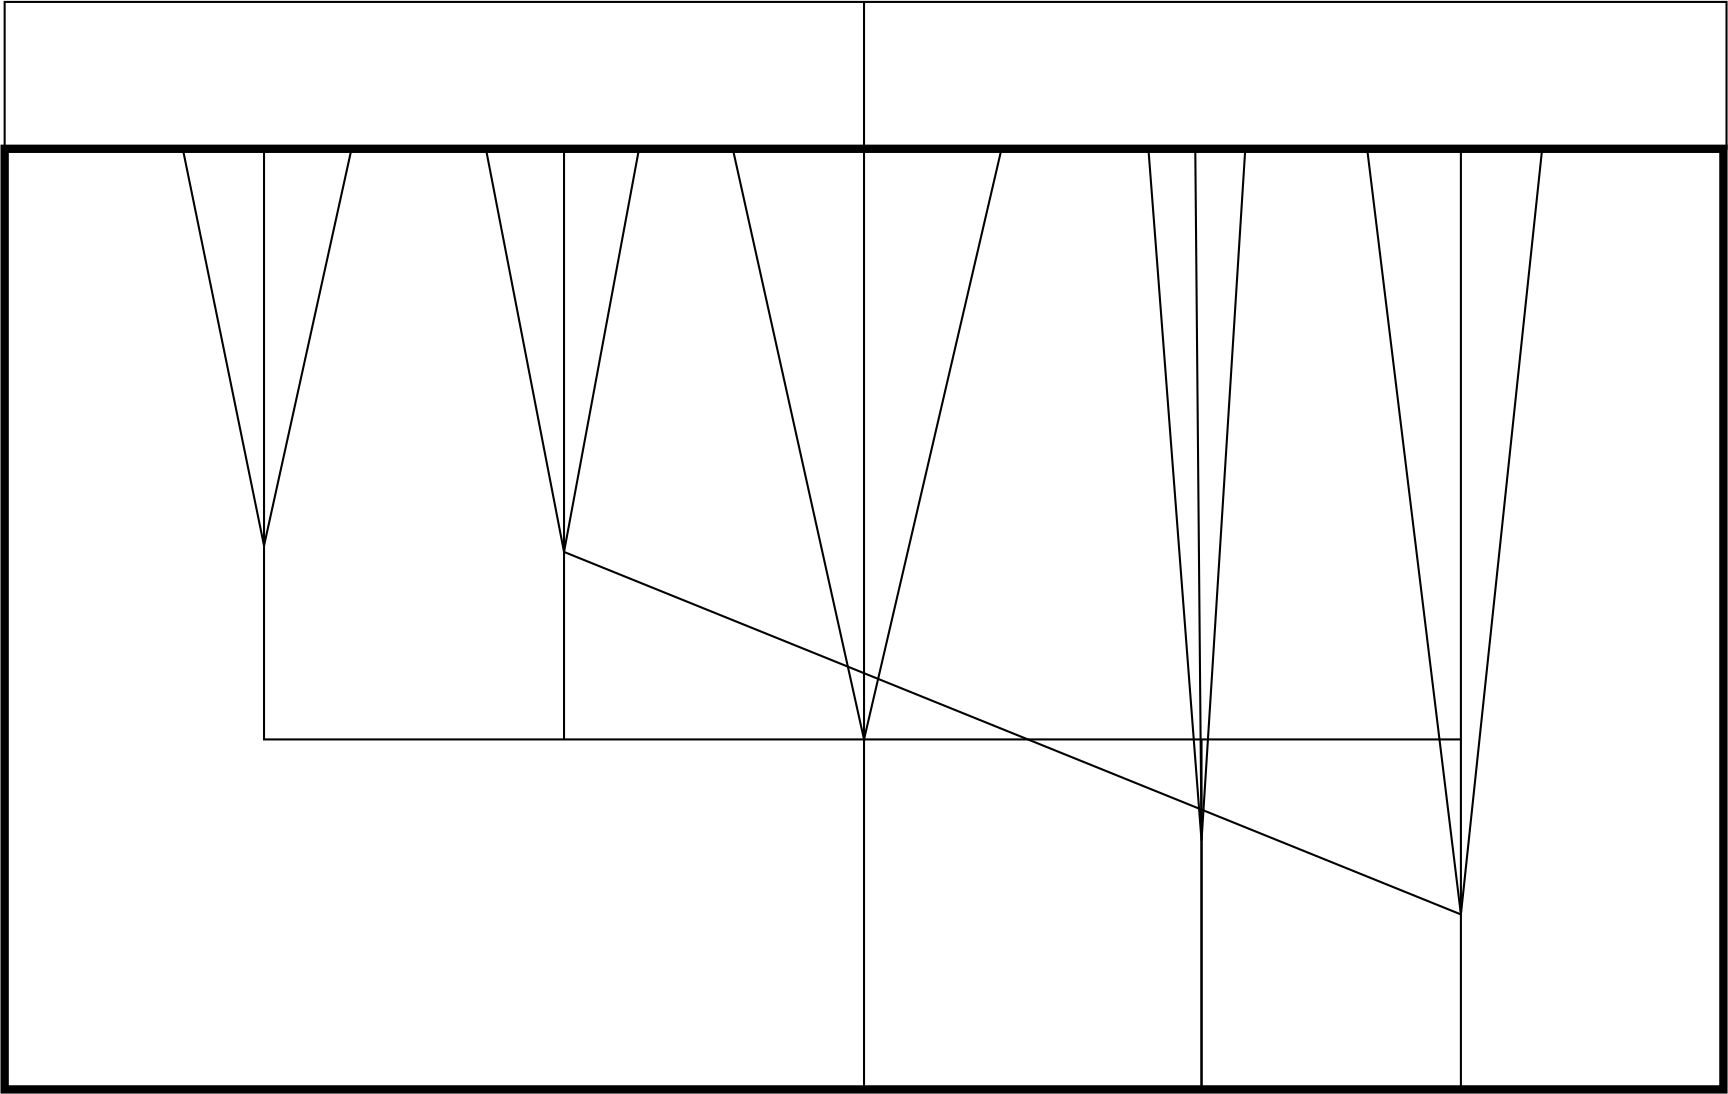
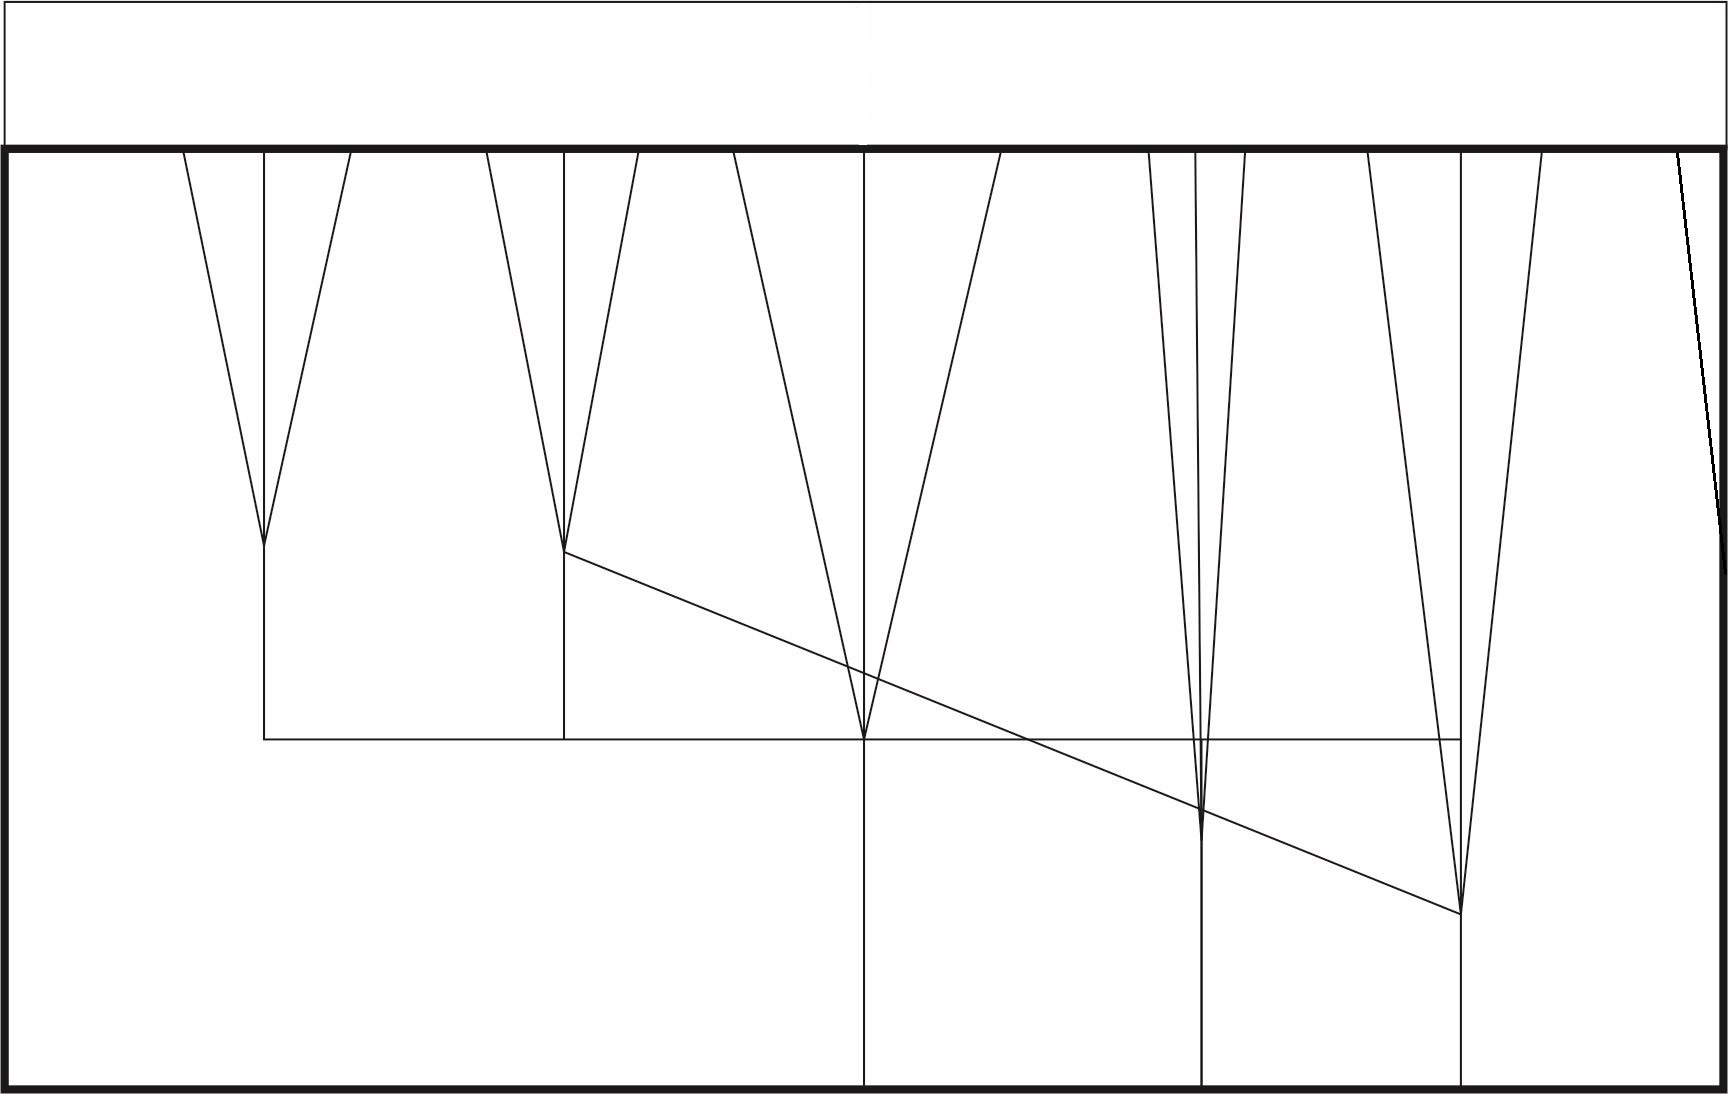
закончила вытачки

diff --git a/index.html b/index.html
@@ -29,12 +29,29 @@
 		</div>
 
 <div id="gHips">
-	<p>Фигура</br><input name="hips" type="radio" value="1.5">На живот</p> 
-	<p><input name="hips" type="radio" value="2.5">Средняя</p>
-	<p><input name="hips" type="radio" value="3.5">Ниже средней</p>
-	<p><input name="hips" type="radio" value="5">Низкая</p>
-   <button id="get">Расчитать</button>
+	<p>Бедра</br><input name="hips" type="radio" value="1.5">Высокие</p> 
+	<p><input name="hips" type="radio" value="2.5">Средние</p>
+	<p><input name="hips" type="radio" value="3.5">Ниже среднего</p>
+	<p><input name="hips" type="radio" value="5">Низкие</p>
+   
 		</div>		
+		<div id="gBalley">
+	<p>Живот</br><input name="bal" type="radio" value="1.5">Высокий</p> 
+	<p><input name="bal" type="radio" value="2.5">Средний</p>
+	<p><input name="bal" type="radio" value="3.5">Ниже среднего</p>
+	<p><input name="bal" type="radio" value="5">Низкий</p>
+   
+		</div>	
+
+		<div id="gAss">
+	<p>Попа</br><input name="ass" type="radio" value="1.5">Высокая</p> 
+	<p><input name="ass" type="radio" value="2.5">Средняя</p>
+	<p><input name="ass" type="radio" value="3.5">Ниже средней</p>
+	<p><input name="ass" type="radio" value="5">Низкая</p>
+
+	<button id="get">Расчитать</button>
+   
+		</div>	
 	
 											
 
@@ -57,6 +74,11 @@
 				<div id="f1"></div>
 				<div id="f5"></div>
 				<div id="f9"></div>
+				<div id="hp1">hp1</div>
+				<div id="hp2">hp2</div>
+				<div id="hp5">hp5</div>
+				<div id="hz1">hz1</div>
+				<div id="hz2">hz2</div>
 				</div>
 			
 				

diff --git a/index.js b/index.js
@@ -143,6 +143,30 @@ function getHips(){
 	};
 };
 
+var bal;
+
+function getBal(){
+	var b = document.getElementsByName("bal");
+	for (var i = 0; i < b.length; i++){
+		if (b[i].checked){
+			bal = +b[i].value;
+			return bal;
+		};
+	};
+};
+
+var ass;
+
+function getAss(){
+	var a = document.getElementsByName("ass");
+	for (var i = 0; i < a.length; i++){
+		if (a[i].checked){
+			ass = +a[i].value;
+			return ass;
+		};
+	};
+};
+
 
 							// вытачки низа расчет 
 
@@ -215,7 +239,7 @@ var oss2 = 0;
  	m3v1 = (m3 + oss2)/2;
  	m3v2 = (m3 + oss2)/2;
  } else {
- 	m3v1 = m3;
+ 	m3v1 = m3 + oss2;
  	m3v2 = 0;
  }
 
@@ -278,7 +302,11 @@ if (f9 > 0){
 	document.getElementById("f9").innerHTML = Math.floor((f9)*100)/100;
 }
 	
-	
+document.getElementById("hp1").innerHTML = Math.floor((getBal() * N)* 100)/100;
+	document.getElementById("hp2").innerHTML = Math.floor((getBal() * N)* 100)/100;
+	document.getElementById("hp5").innerHTML = Math.floor((getHips() * N)* 100)/100;
+	document.getElementById("hz1").innerHTML = Math.floor((getAss() * N)* 100)/100;
+	document.getElementById("hz2").innerHTML = Math.floor((getAss() * N)* 100)/100;	
 	
 
 
@@ -288,8 +316,12 @@ function main(){
 getData();
 getFigure();
 	console.log(getFigure());
-	getHips();
+	getBal();
 	console.log(getHips());
+	getBal();
+	console.log(getBal());
+	getAss();
+	console.log(getAss());
 	basic();
 	verifyAll();
     square()
@@ -298,4 +330,4 @@ getFigure();
      setValueVytochki();
 };
 
-
+//сделала полность вытачки. пора делать остальное

diff --git a/index.css b/index.css
@@ -17,6 +17,22 @@
 #gHips p{
 	width: 300px;
 }
+#gBalley {
+	position: relative;
+	display: inline-block;
+	width: 130px;
+}
+#gBalley p{
+	width: 300px;
+}
+#gAss {
+	position: relative;
+	display: inline-block;
+	width: 130px;
+}
+#gAss p{
+	width: 300px;
+}
 
 #vytochki {
 	position: relative;
@@ -114,7 +130,7 @@
 	position: absolute;
 	font-size: 1.5vw;
 	bottom: 38vw;
-	left: 56.3vw;
+	left: 56vw;
 	width: 30px;
 	margin: 0 0 0 0;
 	
@@ -161,5 +177,63 @@
 	margin: 0 0 0 0;
 	
 }
+#hp1{
+	transform: rotate(270deg);
+	text-align: center;
+	position: absolute;
+	font-size: 1.5vw;
+	bottom: 32vw;
+	left: 20.3vw;
+	width: 30px;
+	margin: 0 0 0 0;
+	
+}
+#hp2{
+	transform: rotate(270deg);
+	text-align: center;
+	position: absolute;
+	font-size: 1.5vw;
+	bottom: 32vw;
+	left: 8.3vw;
+	width: 30px;
+	margin: 0 0 0 0;
+	
+}
+#hp5{
+	transform: rotate(270deg);
+	text-align: center;
+	position: absolute;
+	font-size: 1.5vw;
+	bottom: 32vw;
+	left: 32vw;
+	width: 30px;
+	margin: 0 0 0 0;
+	
+}
+#hz1{
+	transform: rotate(270deg);
+	text-align: center;
+	position: absolute;
+	font-size: 1.5vw;
+	bottom: 32vw;
+	left: 45.5vw;
+	width: 30px;
+	margin: 0 0 0 0;
+	
+}
+
+#hz2{
+	transform: rotate(270deg);
+	text-align: center;
+	position: absolute;
+	font-size: 1.5vw;
+	bottom: 32vw;
+	left: 55.8vw;
+	width: 30px;
+	margin: 0 0 0 0;
+	
+}
+
+
 
 
